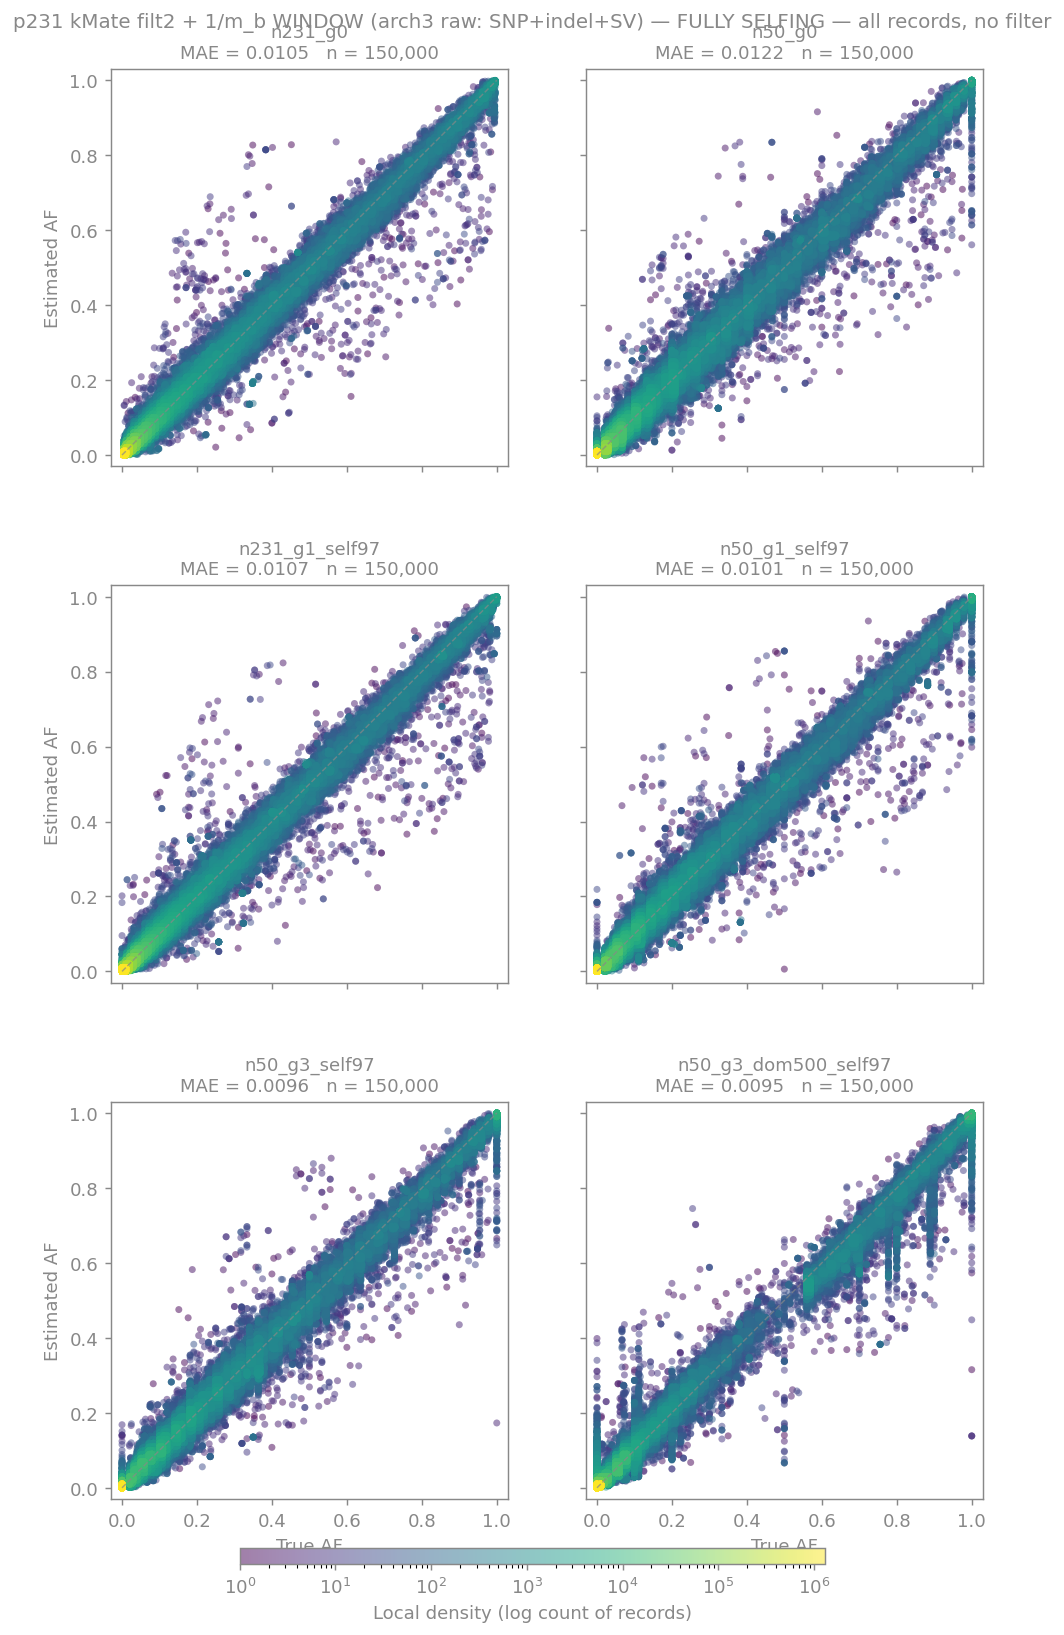
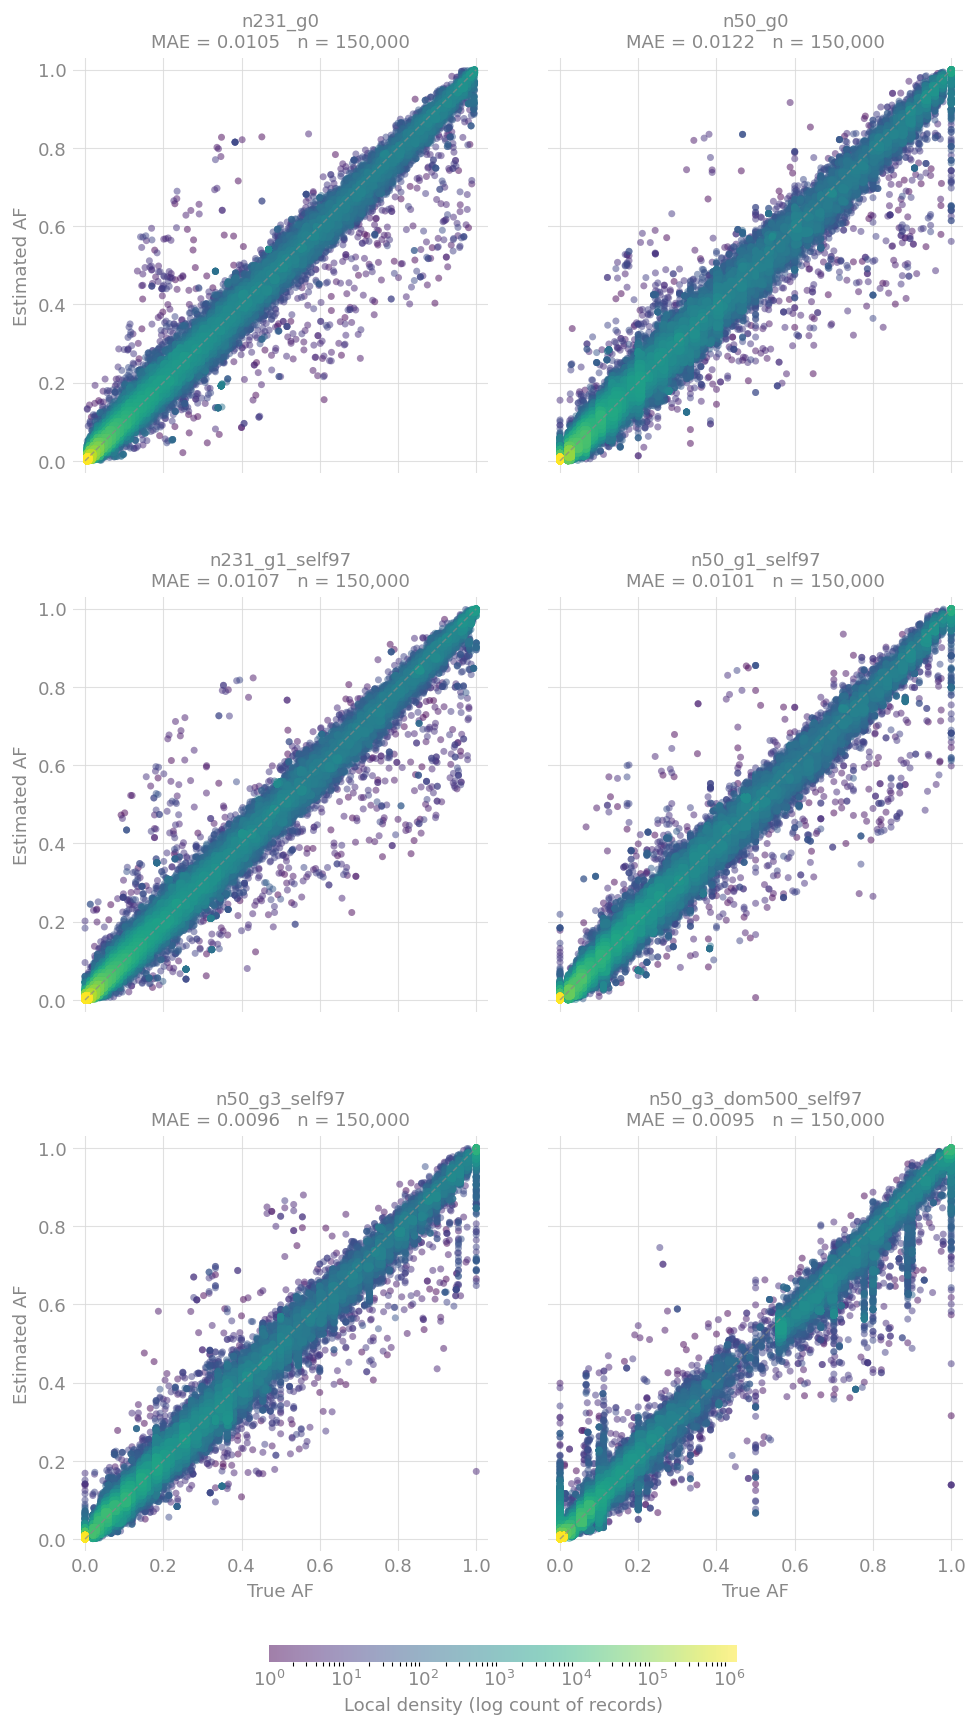
benchmarks: drop suptitle, fix colorbar overlap, publication grid aesthetic on accuracy panels
Shared _accuracy_panel.py: remove figure suptitle (overlapped per-panel
subtitles; README/filename identify the scenario), move the shared colorbar
below the x-axis labels, and switch panels to the publication style (light
background grid, no spines, grey ticks). Regenerated all p231/p80 scenario
grids across no-filter/miss50/miss90.

diff --git a/benchmarks/_accuracy_panel.py b/benchmarks/_accuracy_panel.py
@@ -69,9 +69,12 @@ def scatter_density(ax, x, y, title, s=15, alpha=0.5, subsample=150_000, seed=42
     ax.set_xlim(-0.03, 1.03); ax.set_ylim(-0.03, 1.03)
     ax.set_aspect("equal", adjustable="box")
     ax.set_xticks([0, .2, .4, .6, .8, 1.0]); ax.set_yticks([0, .2, .4, .6, .8, 1.0])
-    for sp in ("top", "right", "left", "bottom"):
-        ax.spines[sp].set_edgecolor(GREY)
-    ax.tick_params(colors=GREY, labelcolor=GREY)
+    # Publication aesthetic: light background grid, no spines.
+    for sp in ax.spines.values():
+        sp.set_visible(False)
+    ax.set_axisbelow(True)
+    ax.grid(True, color="#d9d9d9", linewidth=0.6, alpha=0.8)
+    ax.tick_params(colors=GREY, labelcolor=GREY, length=0)
     return sm
 
 
@@ -81,11 +84,14 @@ def grid_panel(cells, suptitle, outfile, ncols=2, cell=4.0, dpi=130):
     cells: list of (title, truth_array, est_array) in row-major order. A `None`
     entry (or trailing shortfall) leaves that grid slot blank — use it to align
     a baseline panel against a comparison row.
-    Lays them out in `ncols` columns with a shared bottom colorbar + suptitle.
+    Lays them out in `ncols` columns with a shared bottom colorbar. NB: there is
+    deliberately NO figure suptitle — per-panel subtitles identify the regimes and
+    the surrounding text/filename identifies the scenario/mode/filter (`suptitle`
+    is accepted for back-compat but not drawn).
     """
     n = len(cells); nrows = (n + ncols - 1) // ncols
     fig, axes = plt.subplots(nrows, ncols,
-                             figsize=(cell * ncols + 1, cell * nrows + 0.5),
+                             figsize=(cell * ncols + 1, cell * nrows + 1.2),
                              sharex=True, sharey=True, squeeze=False)
     last_sm = None
     for k, ax in enumerate(axes.flat):
@@ -99,15 +105,16 @@ def grid_panel(cells, suptitle, outfile, ncols=2, cell=4.0, dpi=130):
             ax.set_ylabel("Estimated AF", color=GREY)
         if k // ncols == nrows - 1:
             ax.set_xlabel("True AF", color=GREY)
-    fig.subplots_adjust(bottom=0.07, top=0.95, hspace=0.30, wspace=0.10)
+    # Leave clear room at the bottom for the colorbar BELOW the x-axis labels
+    # (no suptitle, so the top can run high).
+    fig.subplots_adjust(bottom=0.11, top=0.98, hspace=0.30, wspace=0.10)
     if last_sm is not None:
-        cax = fig.add_axes([0.25, 0.03, 0.50, 0.01])
+        cax = fig.add_axes([0.30, 0.045, 0.40, 0.010])
         cb = fig.colorbar(last_sm, cax=cax, orientation="horizontal",
                           label="Local density (log count of records)")
-        cb.outline.set_edgecolor(GREY)
-        cb.ax.xaxis.set_tick_params(color=GREY, labelcolor=GREY)
+        cb.outline.set_visible(False)
+        cb.ax.xaxis.set_tick_params(color=GREY, labelcolor=GREY, length=0)
         cb.ax.xaxis.label.set_color(GREY)
-    fig.suptitle(suptitle, y=0.985, fontsize=11, color=GREY)
     fig.savefig(outfile, dpi=dpi, bbox_inches="tight")
     plt.close(fig)
     print(f"saved: {outfile}")
